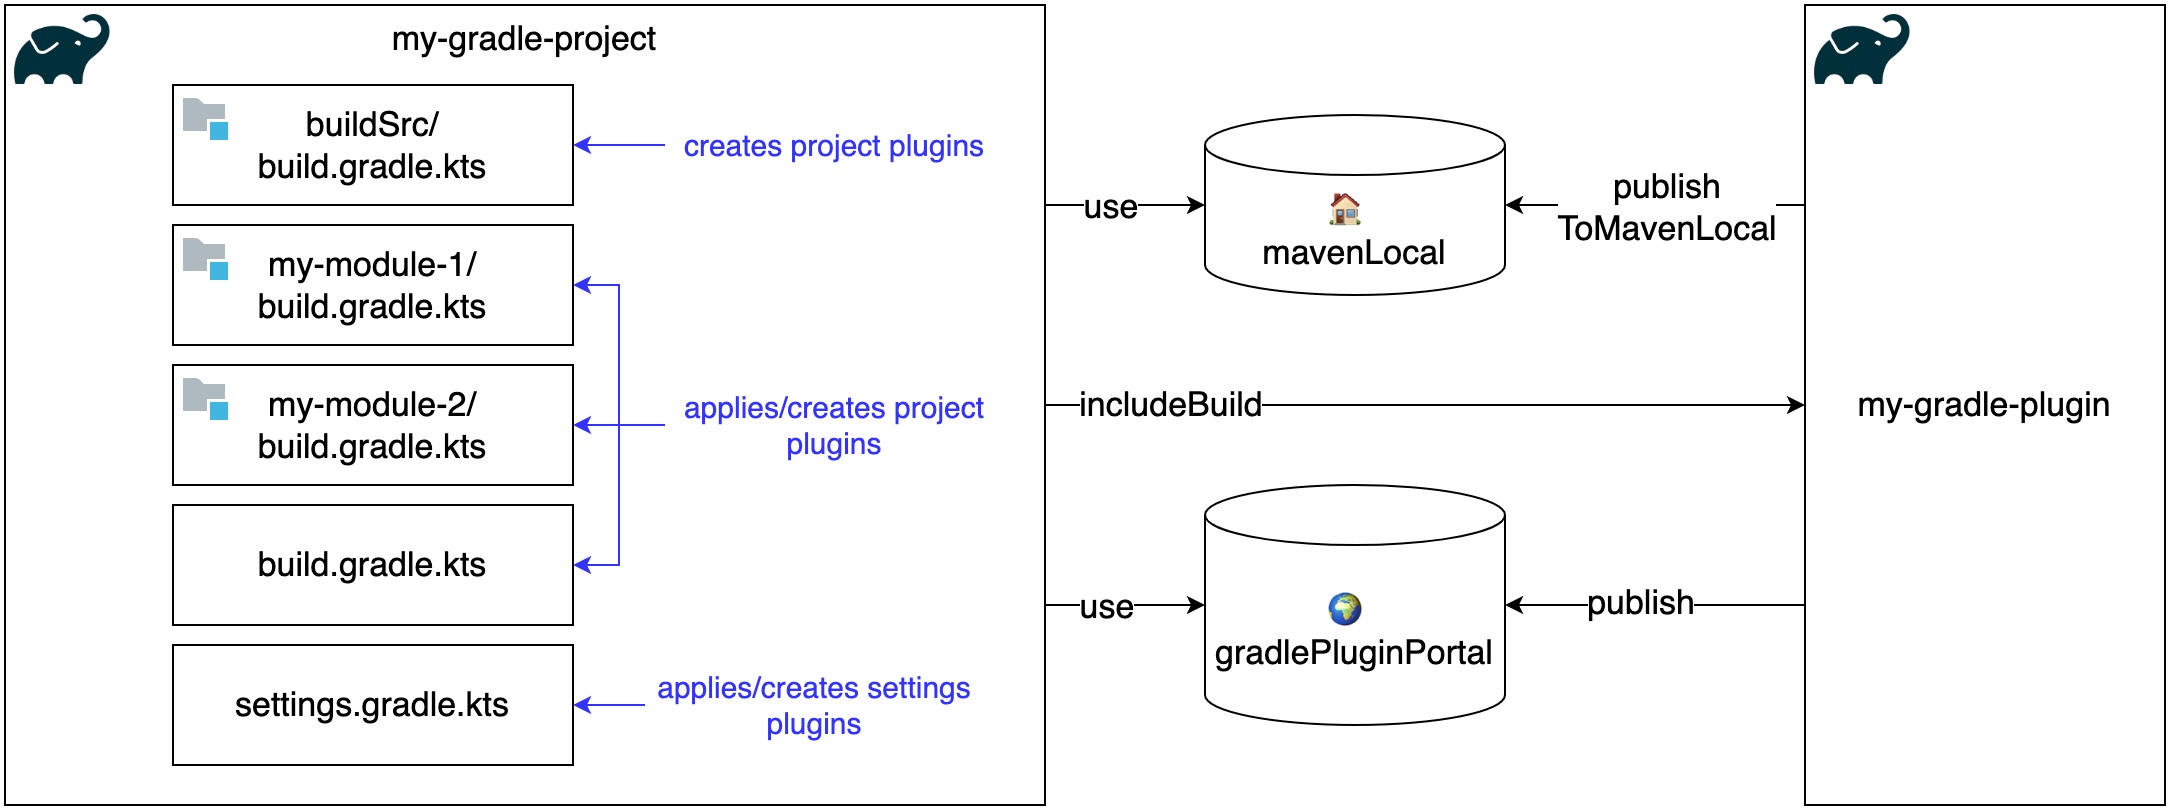
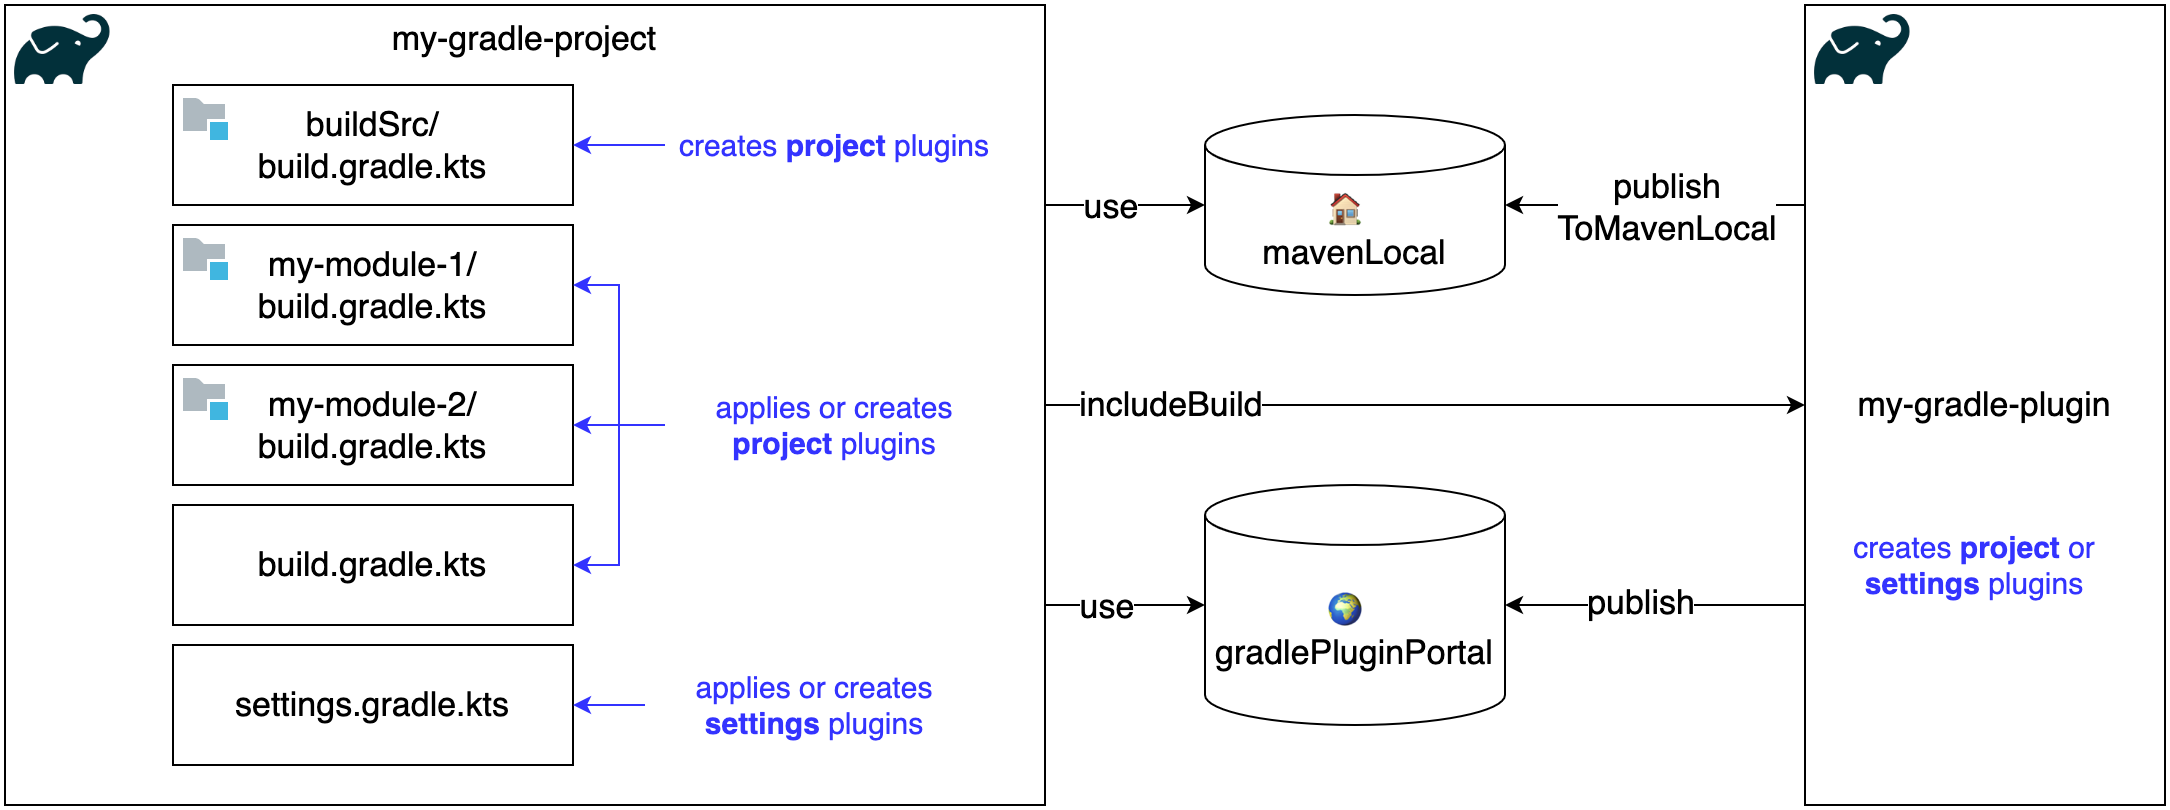
Readme (#3)
* Readme introduction

* Move image

* Refactor intro

* Build script plugins

* Move image

* BuildSrc steps

* Minor changes

* Modify image

* Cursive

* Standalone project

* Use standalone plugins

* Simplify

* Fix link

* Simplify

* Simplify

* TOC

* Simplify

* Bold

* Links

* Links

* Links

* Links

* Links

* Links

* Links

* If you have time

diff --git a/README.md b/README.md
@@ -2,7 +2,370 @@
 
 # First Steps Developing Custom Gradle Plugins
 
+Not long ago **Gradle** scared me a lot 👻 ... maybe it was because of [Groovy](https://groovy-lang.org/)? 😱
+
+But today I am complete in ❤ with **Gradle**! Please don't tell [Maven](https://maven.apache.org/) 😜
+
+**Gradle** plugins allows us to reuse **build logic** across different projects, and we can implement them in any JVM compatible language: **Java**, **Kotlin**, **Groovy**, ...
+
+In this demo we will implement basic **Gradle** plugins following the [Developing Custom Gradle Plugins](https://docs.gradle.org/current/userguide/custom_plugins.html) documentation. If you have time, take a look at [Designing Gradle plugins](https://docs.gradle.org/current/userguide/designing_gradle_plugins.html) and among other sections [Convention over configuration](https://docs.gradle.org/current/userguide/designing_gradle_plugins.html#convention_over_configuration) and [Capabilities vs. conventions](https://docs.gradle.org/current/userguide/designing_gradle_plugins.html#capabilities-vs-conventions)
+
+It will be fun I promise!
+
+## Step by step
+
+Let's follow these steps:
+
+1. [Create plugins in the Build Script](#create-plugins-in-the-build-script)
+   * [Build Script settings plugin](#build-script-settings-plugin)
+   * [Build Script project plugin](#build-script-settings-plugin)
+2. [Create plugins in the **buildSrc** module](#create-plugins-in-the-buildsrc-module)
+3. [Create plugins in a standalone project](#create-plugins-in-a-standalone-project)
+   * [Standalone settings plugin](#standalone-settings-plugin)
+   * [Standalone project plugin](#standalone-project-plugin)
+   * [Using the Standalone plugins](#using-the-standalone-plugins)
+4. [Run this demo](#run-this-demo)
+   * [Run using includeBuild](#run-using-includebuild)
+   * [Run using mavenLocal](#run-using-mavenlocal)
+
 ![gradle-plugins-first-steps](doc/gradle-plugins-first-steps.png)
+
+In this demo we will use a sample multi-module **Gradle** project named [my-gradle-project](my-gradle-project) with two modules and a custom [hello](my-gradle-project/build.gradle.kts#L13) task defined as:
+```kotlin
+tasks.create("hello") {
+  doLast {
+    println("Hello from ${project.name}!")
+  }
+}
+```
+
+So we can simply execute `./gradlew hello` and check all the plugins that are applied. 
+
+### Create plugins in the Build Script
+
+As a first step, we can define plugins directly on our build script. This is enough if we do not have to reuse them outside the build script they are defined in.
+
+#### Build Script settings plugin
+
+To create a settings plugin and apply it in [my-gradle-project > settings.gradle.kts](my-gradle-project/settings.gradle.kts#L30):
+```kotlin
+class MyBuildSettingsPlugin : Plugin<Settings> {
+  override fun apply(settings: Settings) {
+    println("Plugin ${this.javaClass.simpleName} applied on ${settings.rootProject.name}")
+    // TODO configure `settings`
+  }
+}
+
+apply<MyBuildSettingsPlugin>()
+```
+
+For simplicity this example plugin only prints a line whenever is applied. A real plugin should do something with the `Settings` object that is passed as parameter.
+
+Try it running `./gradlew hello` and it should print this line:
+```
+Plugin MyBuildSettingsPlugin applied on my-gradle-project
+```
+
+#### Build Script project plugin
+
+To create a project plugin in [my-gradle-project > build.gradle.kts](my-gradle-project/build.gradle.kts#L22):
+```kotlin
+class MyBuildProjectPlugin : Plugin<Project> {
+    override fun apply(project: Project) {
+        println("Plugin ${this.javaClass.simpleName} applied on ${project.name}")
+        // TODO configure `project`
+    }
+}
+```
+
+Then for example we can apply the plugin on all projects:
+```kotlin
+allprojects {
+    apply<MyBuildProjectPlugin>()
+}
+```
+
+Again this example plugin only prints a line whenever is applied. A real plugin should do something with the `Project` object that is passed as parameter.
+
+Try it running `./gradlew hello` and it should print these lines:
+```
+> Configure project :
+Plugin MyBuildProjectPlugin applied on my-gradle-project
+Plugin MyBuildProjectPlugin applied on my-module-1
+Plugin MyBuildProjectPlugin applied on my-module-2
+```
+
+### Create plugins in the **buildSrc** module
+
+As a second step, we can define project plugins in a special module named [**buildSrc**](my-gradle-project/buildSrc). All plugins defined there will be **only** visible to every build script within the project.
+
+But most important, we can add tests! 🤩
+
+First we create [**buildSrc**](my-gradle-project/buildSrc) module under [my-gradle-project](my-gradle-project) using [**Gradle init** and the **kotlin-gradle-plugin** template](https://docs.gradle.org/current/userguide/build_init_plugin.html#sec:kotlin_gradle_plugin)
+
+We implement the plugin in [MyBuildSrcProjectPlugin.kt](my-gradle-project/buildSrc/src/main/kotlin/com/rogervinas/MyBuildSrcProjectPlugin.kt):
+```kotlin
+class MyBuildSrcProjectPlugin : Plugin<Project> {
+  override fun apply(project: Project) {
+    println("Plugin ${this.javaClass.simpleName} applied on ${project.name}")
+    project.tasks.register("my-buildsrc-project-task") { task ->
+      task.doLast {
+        println("Task ${task.name} executed on ${project.name}")
+      }
+    }
+  }
+}
+```
+
+We register it in [**buildSrc** > build.gradle.kts](my-gradle-project/buildSrc/build.gradle.kts), giving it an `id`:
+```kotlin
+gradlePlugin {
+    plugins {
+        create("my-buildsrc-project-plugin") {
+            id = "com.rogervinas.my-buildsrc-project-plugin"
+            implementationClass = "com.rogervinas.MyBuildSrcProjectPlugin"
+        }
+    }
+}
+```
+
+And we unit test it in [MyBuildSrcProjectPluginTest.kt](my-gradle-project/buildSrc/src/test/kotlin/com/rogervinas/MyBuildSrcProjectPluginTest.kt):
+```kotlin
+@Test
+fun `should add new task to project`() {
+  val project = ProjectBuilder.builder().build()
+  project.plugins.apply("com.rogervinas.my-buildsrc-project-plugin")
+
+  assertThat(project.tasks.findByName("my-buildsrc-project-task")).isNotNull()
+}
+```
+
+As you can see in this example the plugin registers a new task named `my-buildsrc-project-task`.
+
+So now we can use it in any build script for example in root [my-gradle-project > build.gradle.kts](my-gradle-project/build.gradle.kts) applied to `allprojects`:
+```kotlin
+plugins {
+  id("com.rogervinas.my-buildsrc-project-plugin")
+}
+
+allprojects { 
+  apply(plugin = "com.rogervinas.my-buildsrc-project-plugin")
+}
+```
+
+And then we can try it executing `./gradlew my-buildsrc-project-task` and it should print these lines:
+```
+> Configure project :
+Plugin MyBuildSrcProjectPlugin applied on my-gradle-project
+Plugin MyBuildSrcProjectPlugin applied on my-module-1
+Plugin MyBuildSrcProjectPlugin applied on my-module-2
+
+> Task :my-buildsrc-project-task
+Task my-buildsrc-project-task executed on my-gradle-project
+
+> Task :my-module-1:my-buildsrc-project-task
+Task my-buildsrc-project-task executed on my-module-1
+
+> Task :my-module-2:my-buildsrc-project-task
+Task my-buildsrc-project-task executed on my-module-2
+```
+
+Notes:
+* Apart from *unit tests* we can also add *functional tests* to the **buildSrc** module. I omitted them here for simplicity (you can see an example in the [Standalone Project](#create-plugins-in-a-standalone-project) section)
+* We cannot define settings plugins on **buildSrc** since **Gradle** 5.x because [classes from buildSrc are no longer visible to settings scripts](https://docs.gradle.org/current/userguide/upgrading_version_5.html#classes_from_buildsrc_are_no_longer_visible_to_settings_scripts)
+
+### Create plugins in a standalone project
+
+As a final step, if we want to reuse plugins among all our projects and even share them with the rest of the world, we can create them in a separate project.
+
+For this sample I've created a project [my-gradle-plugins](my-gradle-plugins) with two independent modules each using [**Gradle init** and the **kotlin-gradle-plugin** template](https://docs.gradle.org/current/userguide/build_init_plugin.html#sec:kotlin_gradle_plugin). Other templates can be used: [java-gradle-plugin](https://docs.gradle.org/current/userguide/build_init_plugin.html#sec:java_gradle_plugin) or [groovy-gradle-plugin](https://docs.gradle.org/current/userguide/build_init_plugin.html#sec:groovy_gradle_plugin) 
+
+I've decided to create one plugin per module, but you could define many plugins in the same module.
+
+#### Standalone settings plugin
+
+We implement the plugin in [MySettingsPlugin.kt](my-gradle-plugins/my-settings-gradle-plugin/src/main/kotlin/com/rogervinas/MySettingsPlugin.kt):
+```kotlin
+class MySettingsPlugin : Plugin<Settings> {
+    override fun apply(settings: Settings) {
+        println("Plugin ${this.javaClass.simpleName} applied on ${settings.rootProject.name}")
+        settings.gradle.allprojects { project ->
+            project.tasks.register("my-settings-task") { task ->
+                task.doLast {
+                    println("Task ${task.name} executed on ${project.name}")
+                }
+            }
+        }
+    }
+}
+```
+
+We register it in [build.gradle.kts](my-gradle-plugins/my-settings-gradle-plugin/build.gradle.kts), giving it an `id`:
+```kotlin
+gradlePlugin {
+    plugins {
+        create("my-settings-plugin") {
+            id = "com.rogervinas.my-settings-plugin"
+            implementationClass = "com.rogervinas.MySettingsPlugin"
+        }
+    }
+}
+```
+
+And we test it in a *functional test* in [MySettingsPluginFunctionalTest.kt](my-gradle-plugins/my-settings-gradle-plugin/src/functionalTest/kotlin/com/rogervinas/MySettingsPluginFunctionalTest.kt), with real gradle projects saved under [src/functionalTest/resources](my-gradle-plugins/my-settings-gradle-plugin/src/functionalTest/resources):
+```kotlin
+@Test
+fun `should add new task to single-project`() {
+    val runner = GradleRunner.create()
+    runner.forwardOutput()
+    runner.withPluginClasspath()
+    runner.withArguments("my-settings-task")
+    runner.withProjectDir(File("src/functionalTest/resources/single-project"))
+    val result = runner.build()
+
+    assertThat(result.output).all {
+        contains("Plugin MySettingsPlugin applied on single-project")
+        contains("Task my-settings-task executed on single-project")
+    }
+}
+```
+
+Notes:
+* If you check [MySettingsPluginFunctionalTest.kt](my-gradle-plugins/my-settings-gradle-plugin/src/functionalTest/kotlin/com/rogervinas/MySettingsPluginFunctionalTest.kt) you will see two tests: one for one single-project and one for one multi-module project.
+* I have not found any way to *unit test* a settings plugin. For settings plugins there is no helper class like there is `org.gradle.testfixtures.ProjectBuilder` for project plugins. If you know a way please let me know! 🙏
+* We use static gradle projects saved under [src/functionalTest/resources](my-gradle-plugins/my-settings-gradle-plugin/src/functionalTest/resources) but we can also generate gradle projects programmatically, saving them on temporary folders (check [this sample](https://docs.gradle.org/current/userguide/test_kit.html#example_using_gradlerunner_with_java_and_junit)).
+
+#### Standalone project plugin
+
+We implement the plugin in [MyProjectPlugin.kt](my-gradle-plugins/my-project-gradle-plugin/src/main/kotlin/com/rogervinas/MyProjectPlugin.kt):
+```kotlin
+class MyProjectPlugin : Plugin<Project> {
+    override fun apply(project: Project) {
+        println("Plugin ${this.javaClass.simpleName} applied on ${project.name}")
+        project.tasks.register("my-project-task") { task ->
+            task.doLast {
+                println("Task ${task.name} executed on ${project.name}")
+            }
+        }
+    }
+}
+```
+
+We register it in [build.gradle.kts](my-gradle-plugins/my-project-gradle-plugin/build.gradle.kts), giving it an `id`:
+```kotlin
+gradlePlugin {
+    plugins {
+        create("my-project-plugin") {
+            id = "com.rogervinas.my-project-plugin"
+            implementationClass = "com.rogervinas.MyProjectPlugin"
+        }
+    }
+}
+```
+
+We test it in a *unit test* in [MyProjectPluginTest.kt](my-gradle-plugins/my-project-gradle-plugin/src/test/kotlin/com/rogervinas/MyProjectPluginTest.kt):
+```kotlin
+@Test
+fun `should add new task to project`() {
+  val project = ProjectBuilder.builder().build()
+  project.plugins.apply("com.rogervinas.my-project-plugin")
+
+  assertThat(project.tasks.findByName("my-project-task")).isNotNull()
+}
+```
+
+We test it in a *functional test* in [MyProjectPluginFunctionalTest.kt](my-gradle-plugins/my-project-gradle-plugin/src/functionalTest/kotlin/com/rogervinas/MyProjectPluginFunctionalTest.kt) with real gradle projects saved under [src/functionalTest/resources](my-gradle-plugins/my-project-gradle-plugin/src/functionalTest/resources):
+```kotlin
+@Test
+fun `should add new task to single-project`() {
+  val runner = GradleRunner.create()
+  runner.forwardOutput()
+  runner.withPluginClasspath()
+  runner.withArguments("my-project-task")
+  runner.withProjectDir(File("src/functionalTest/resources/single-project"))
+  val result = runner.build()
+
+  assertThat(result.output).all {
+    contains("Plugin MyProjectPlugin applied on single-project")
+    contains("Task my-project-task executed on single-project")
+  }
+}
+```
+
+Notes:
+* If you check [MyProjectPluginFunctionalTest.kt](my-gradle-plugins/my-project-gradle-plugin/src/functionalTest/kotlin/com/rogervinas/MyProjectPluginFunctionalTest.kt) you will see two tests: one for one single-project and one for one multi-module project.
+* We use static gradle projects saved under [src/functionalTest/resources](my-gradle-plugins/my-project-gradle-plugin/src/functionalTest/resources) but we can also generate gradle projects programmatically, saving them on temporary folders (check [this sample](https://docs.gradle.org/current/userguide/test_kit.html#example_using_gradlerunner_with_java_and_junit)).
+
+### Using the standalone plugins
+
+To use the standalone plugins **locally** during development we have two alternatives:
+* Using `includeBuild`: see [Run using includeBuild](#run-using-includebuild)
+* Publishing the plugins locally: see [Run using mavenLocal](#run-using-mavenlocal)
+
+Then we declare which version we want to use just once in [my-gradle-project > settings.gradle.kts](my-gradle-project/settings.gradle.kts):
+```kotlin
+pluginManagement {
+  plugins {
+    id("com.rogervinas.my-settings-plugin") version "1.0"
+    id("com.rogervinas.my-project-plugin") version "1.0"
+  }
+}
+```
+
+We apply the settings plugin in [my-gradle-project > settings.gradle.kts](my-gradle-project/settings.gradle.kts):
+```kotlin
+plugins {
+  id("com.rogervinas.my-settings-plugin")
+}
+```
+
+We apply the project plugin in any build script for example in [my-gradle-project > build.gradle.kts](my-gradle-project/build.gradle.kts) applied to `allprojects`:
+```kotlin
+plugins {
+  id("com.rogervinas.my-project-plugin")
+}
+
+allprojects {
+  apply(plugin="com.rogervinas.my-project-plugin")
+}
+```
+
+And finally we can publish them to any private or public repository or to [Gradle Plugin Portal](https://docs.gradle.org/current/userguide/publishing_gradle_plugins.html) 🎉
+
+## Run this demo
+
+### Run using includeBuild
+
+1. Edit [my-gradle-project > settings.gradle.kts](my-gradle-project/settings.gradle.kts) and:
+* Remove or comment line `mavenLocal()` in pluginManagement > repositories
+* Add or uncomment line `includeBuild("../my-gradle-plugins")`
+
+2. Execute:
+```shell
+cd my-gradle-project
+./gradlew hello
+```
+
+If you want to know more about `includeBuild` you can read about [Composing builds](https://docs.gradle.org/current/userguide/composite_builds.html#composite_builds)
+
+### Run using mavenLocal
+
+1. Build and publish my-gradle-plugins locally:
+
+```shell
+cd my-gradle-plugins
+./gradlew publishToMavenLocal
+```
+
+2. Edit [my-gradle-project > settings.gradle.kts](my-gradle-project/settings.gradle.kts) and:
+* Add or uncomment line `mavenLocal()` in pluginManagement > repositories
+* Remove or comment line `includeBuild("../my-gradle-plugins")`
+
+3. Execute:
+```shell
+cd my-gradle-project
+./gradlew hello
+```
 
 ## Documentation
 
